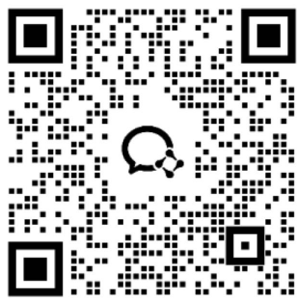
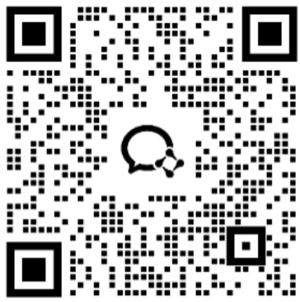
update QR code to join wechat group

diff --git a/docs/zh/docs/contact/index.md b/docs/zh/docs/contact/index.md
@@ -49,105 +49,3 @@ hide:
     [400 002 6898](tel:+400 002 6898)
 
 </div>
-
-<!-- -   :simple-zhihu:{ .lg .middle } __知乎__
-
-    ---
-
-    [知乎 - 道客 DaoCloud](https://www.zhihu.com/org/daocloud-3)
-
--   :simple-bilibili:{ .lg .middle } __B 站__
-
-    ---
-
-    [B 站 - 道客 DaoCloud](https://space.bilibili.com/549612570)
-
--   :simple-tiktok:{ .lg .middle } __今日头条__
-
-    ---
-
-    [今日头条 - 道客 DaoCloud](https://www.toutiao.com/c/user/token/MS4wLjABAAAAjCL7lpMJRcqWN1GJyHspMBw89REvqHABPpfpIAi3W4SWaXfSu87vF5tWRfhkk7gm/?source=m_redirect)
-
--   :simple-baidu:{ .lg .middle } __百家号__
-
-    ---
-
-    [百家号 - 道客 DaoCloud](https://author.baidu.com/home?from=bjh_article&app_id=1726352370746478)
-
--   :simple-linkedin:{ .lg .middle } __LinkedIn__
-
-    ---
-
-    [领英 - 道客 DaoCloud](https://www.linkedin.com/in/daocloud/)
-
--   :material-twitter:{ .lg .middle } __Twitter__
-
-    ---
-
-    [Twitter 或 X - DaoCloud](https://x.com/daocloud_io)
-
--   :simple-youtube:{ .lg .middle } __YouTube__
-
-    ---
-
-    [YouTube - DaoCloud](https://www.youtube.com/results?search_query=daocloud) -->
-
-<!-- ## 各地分公司
-
-<div class="grid cards" markdown>
-
--   :tokyo_tower:{ .lg .middle } __DaoCloud 上海（集团总部）__
-
-    ---
-
-    上海市杨浦区江湾城路 99 号 6 号楼 7 层
-
--   :house_with_garden:{ .lg .middle } __DaoCloud 新加坡（海外总部）__
-
-    ---
-
-    6 Raffles Quay, \#14-06, Singapore
-
--   :flag_hk:{ .lg .middle } __DaoCloud 香港__
-
-    ---
-
-    香港九龙塘达之路 72 号（创新中心）4 楼 415 单元
-
--   :metro:{ .lg .middle } __DaoCloud 北京__
-
-    ---
-
-    北京市西城区德胜门外大街 13 号院 1 号楼合生财富广场 L703A
-
--   :cityscape:{ .lg .middle } __DaoCloud 深圳__
-
-    ---
-
-    广东省深圳市南山区高新南环路 42 号北邮科技大厦 10 楼 03 室
-
--   :mountain_snow:{ .lg .middle } __DaoCloud 重庆__
-
-    ---
-
-    重庆市两江新区大竹林街道慈竹路金科天元道 C 区
-
--   :fontawesome-solid-city:{ .lg .middle } __DaoCloud 南京__
-
-    ---
-
-    江苏省南京市建邺区江东中路 258 号 T6 幢 10 楼 1006 室
-
--   :palm_tree:{ .lg .middle } __DaoCloud 广州__
-
-    ---
-
-    广东省广州市天河区冼村路 11 号之二保利威座北塔 1706 室
-
--   :heart:{ .lg .middle } __DaoCloud 武汉__
-
-    ---
-
-    湖北省武汉市洪山区珞狮路 222 号诚功新时代 2203 室
-
-</div> -->
